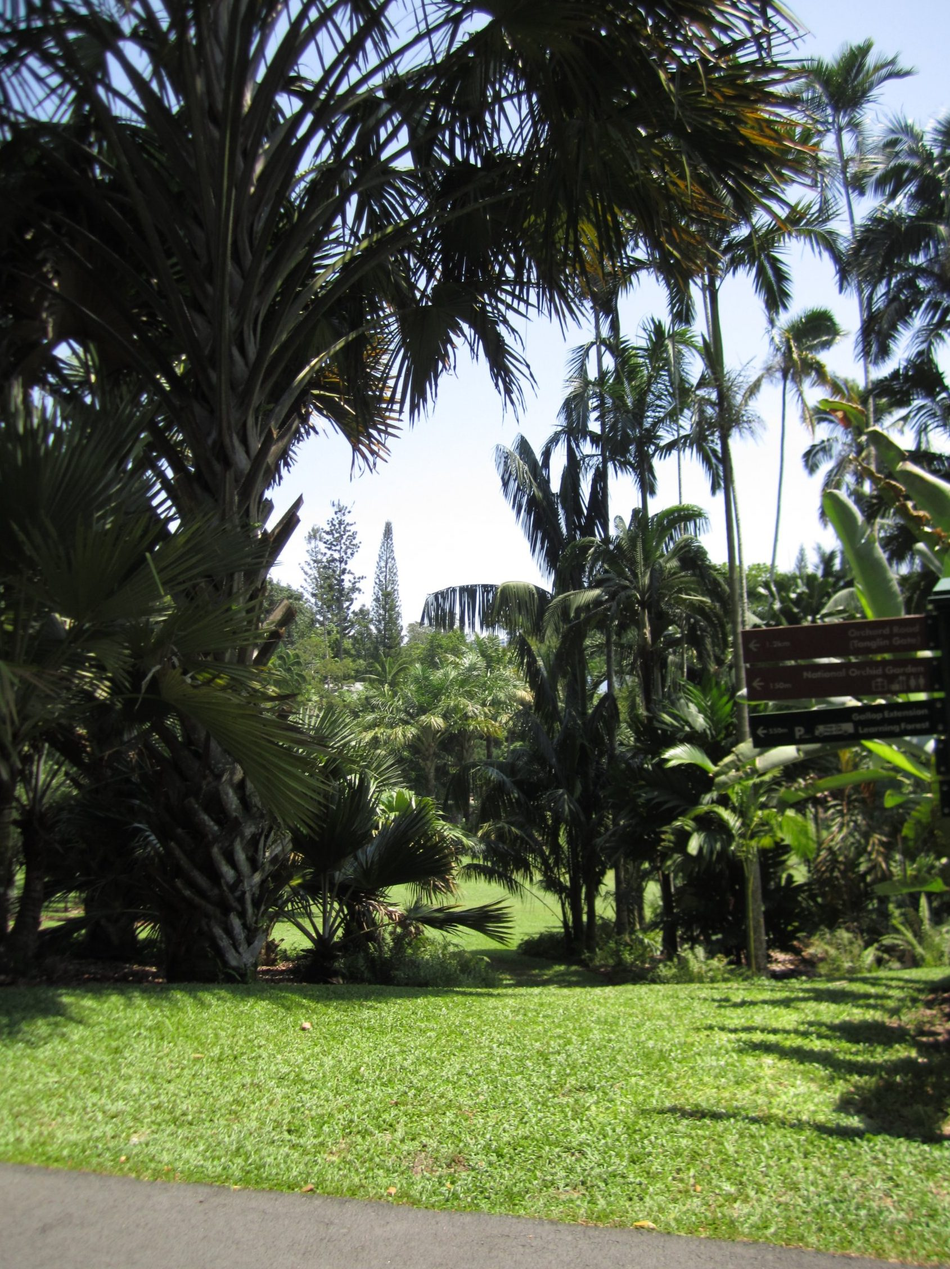
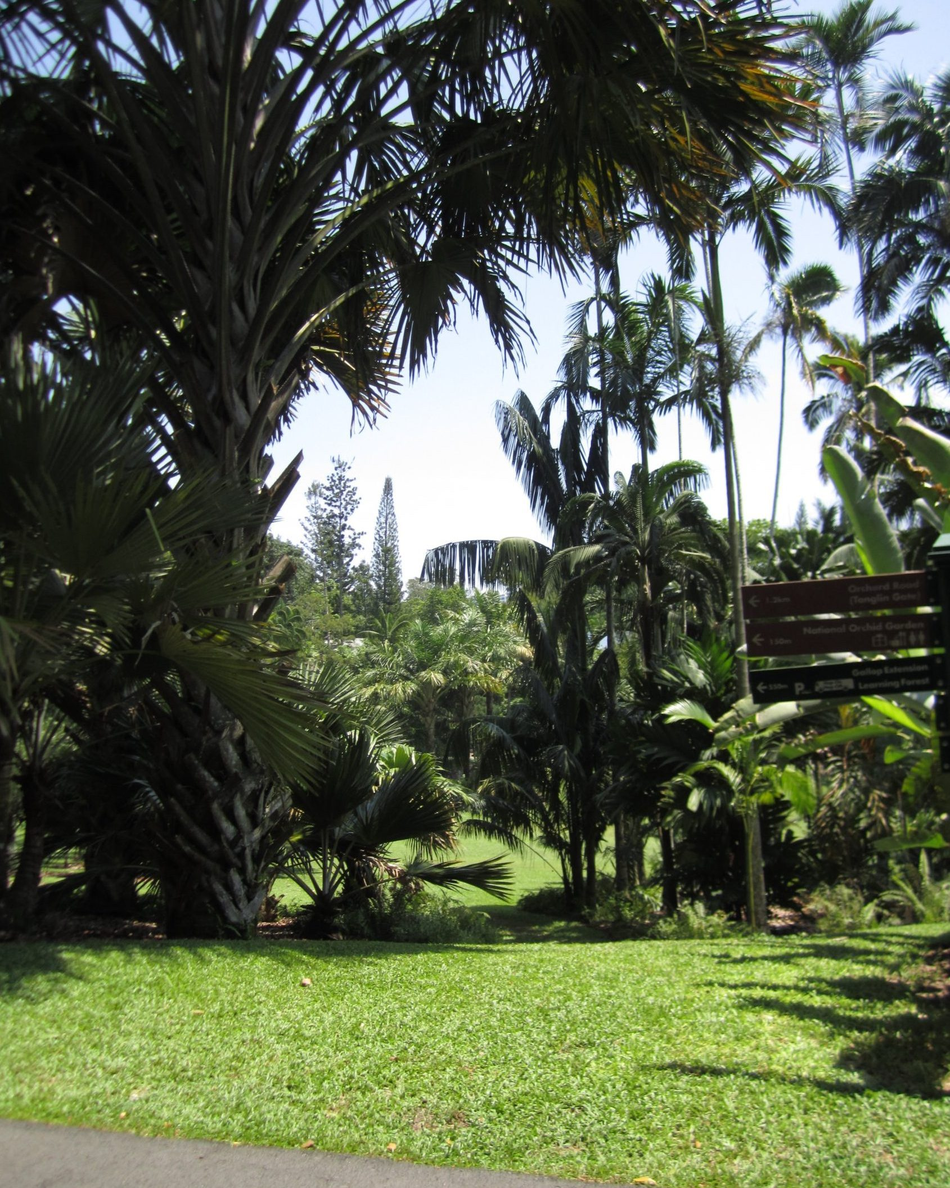
Hero photos: crop to 4:5
Claude-Session: https://claude.ai/code/session_01CzUgLB4bLHRPfWzb5fm5tx

diff --git a/index.html b/index.html
@@ -5,7 +5,7 @@
 <meta name="viewport" content="width=device-width, initial-scale=1">
 <title>Oulan Li — Experience Designer</title>
 <meta name="description" content="Oulan Li is an experience designer working across interfaces, games and research.">
-<link rel="stylesheet" href="assets/home.css?v=20261115">
+<link rel="stylesheet" href="assets/home.css?v=20261115b">
 <script>
   // Apply the saved theme before first paint to avoid a flash.
   try { if (localStorage.getItem('theme') === 'dark') document.documentElement.dataset.theme = 'dark'; } catch (e) {}
@@ -27,9 +27,9 @@
     <!-- Hero: replace .hero-media contents with a looping B&W <video> or <img>. -->
     <section class="hero" aria-label="Intro">
       <div class="hero-media">
-        <div class="season" data-season="spring" ><span class="bg" style="background-image:url('assets/images/hero-spring.jpg')"></span><img src="assets/images/hero-spring.jpg" alt="Cherry blossoms over the water, photographed by Oulan" loading="lazy"></div>
-        <div class="season" data-season="summer" ><span class="bg" style="background-image:url('assets/images/hero-summer.jpg')"></span><img src="assets/images/hero-summer.jpg" alt="Palms and a green lawn in a tropical garden, photographed by Oulan" loading="lazy"></div>
-        <div class="season is-on" data-season="fall" ><span class="bg" style="background-image:url('assets/images/hero-fall.jpg')"></span><img src="assets/images/hero-fall.jpg" alt="A path under autumn trees, red and yellow leaves on the grass, photographed by Oulan"></div>
+        <div class="season" data-season="spring" ><span class="bg" style="background-image:url('assets/images/hero-spring.jpg?v=2')"></span><img src="assets/images/hero-spring.jpg?v=2" alt="Cherry blossoms over the water, photographed by Oulan" loading="lazy"></div>
+        <div class="season" data-season="summer" ><span class="bg" style="background-image:url('assets/images/hero-summer.jpg?v=2')"></span><img src="assets/images/hero-summer.jpg?v=2" alt="Palms and a green lawn in a tropical garden, photographed by Oulan" loading="lazy"></div>
+        <div class="season is-on" data-season="fall" ><span class="bg" style="background-image:url('assets/images/hero-fall.jpg?v=2')"></span><img src="assets/images/hero-fall.jpg?v=2" alt="A path under autumn trees, red and yellow leaves on the grass, photographed by Oulan"></div>
       </div>
       <p class="hero-note" aria-label="Photos by me, one per season">
         <button type="button" data-season="spring">Spring</button><span>·</span><button type="button" data-season="summer">Summer</button><span>·</span><button type="button" data-season="fall" class="is-on" aria-pressed="true">Fall</button> 2026 <span class="by">· Photo by me</span>
@@ -107,6 +107,6 @@
     </div>
   </main>
 
-<script src="assets/home.js?v=20261115"></script>
+<script src="assets/home.js?v=20261115b"></script>
 </body>
 </html>

diff --git a/work/familink.html b/work/familink.html
@@ -5,7 +5,7 @@
 <meta name="viewport" content="width=device-width, initial-scale=1">
 <title>famiLink — Oulan Li</title>
 <meta name="description" content="famiLink: a shared virtual home that helps long-distance families stay close. A UX research and experience design case study.">
-<link rel="stylesheet" href="../assets/home.css?v=20261115">
+<link rel="stylesheet" href="../assets/home.css?v=20261115b">
 <script>
   try { if (localStorage.getItem('theme') === 'dark') document.documentElement.dataset.theme = 'dark'; } catch (e) {}
 </script>
@@ -295,6 +295,6 @@
     </footer>
   </main>
 
-<script src="../assets/home.js?v=20261115"></script>
+<script src="../assets/home.js?v=20261115b"></script>
 </body>
 </html>

diff --git a/work/it-takes-two-alices.html b/work/it-takes-two-alices.html
@@ -5,7 +5,7 @@
 <meta name="viewport" content="width=device-width, initial-scale=1">
 <title>It Takes Two Alices — Oulan Li</title>
 <meta name="description" content="A two-player AR puzzle game on Tilt Five that makes kids’ first step into programming social.">
-<link rel="stylesheet" href="../assets/home.css?v=20261115">
+<link rel="stylesheet" href="../assets/home.css?v=20261115b">
 <script>
   try { if (localStorage.getItem('theme') === 'dark') document.documentElement.dataset.theme = 'dark'; } catch (e) {}
 </script>
@@ -169,6 +169,6 @@
     </footer>
   </main>
 
-<script src="../assets/home.js?v=20261115"></script>
+<script src="../assets/home.js?v=20261115b"></script>
 </body>
 </html>

diff --git a/work/yiko-yiko.html b/work/yiko-yiko.html
@@ -5,7 +5,7 @@
 <meta name="viewport" content="width=device-width, initial-scale=1">
 <title>Yiko Yiko — Oulan Li</title>
 <meta name="description" content="A playful website for a handmade dessert bakery, with custom cake orders built in.">
-<link rel="stylesheet" href="../assets/home.css?v=20261115">
+<link rel="stylesheet" href="../assets/home.css?v=20261115b">
 <script>
   try { if (localStorage.getItem('theme') === 'dark') document.documentElement.dataset.theme = 'dark'; } catch (e) {}
 </script>
@@ -174,6 +174,6 @@
     </footer>
   </main>
 
-<script src="../assets/home.js?v=20261115"></script>
+<script src="../assets/home.js?v=20261115b"></script>
 </body>
 </html>

diff --git a/work/360-studio.html b/work/360-studio.html
@@ -5,7 +5,7 @@
 <meta name="viewport" content="width=device-width, initial-scale=1">
 <title>360 Studio — Oulan Li</title>
 <meta name="description" content="What makes play around a 360° screen work? A CMU ETC project, in progress.">
-<link rel="stylesheet" href="../assets/home.css?v=20261115">
+<link rel="stylesheet" href="../assets/home.css?v=20261115b">
 <script>
   try { if (localStorage.getItem('theme') === 'dark') document.documentElement.dataset.theme = 'dark'; } catch (e) {}
 </script>
@@ -56,6 +56,6 @@
     </footer>
   </main>
 
-<script src="../assets/home.js?v=20261115"></script>
+<script src="../assets/home.js?v=20261115b"></script>
 </body>
 </html>

diff --git a/i-had-fun.html b/i-had-fun.html
@@ -5,7 +5,7 @@
 <meta name="viewport" content="width=device-width, initial-scale=1">
 <title>I had fun — Oulan Li</title>
 <meta name="description" content="Four game jams from Building Virtual Worlds at CMU’s ETC, each made in two weeks.">
-<link rel="stylesheet" href="assets/home.css?v=20261115">
+<link rel="stylesheet" href="assets/home.css?v=20261115b">
 <script>
   try { if (localStorage.getItem('theme') === 'dark') document.documentElement.dataset.theme = 'dark'; } catch (e) {}
 </script>
@@ -69,6 +69,6 @@
     </footer>
   </main>
 
-<script src="assets/home.js?v=20261115"></script>
+<script src="assets/home.js?v=20261115b"></script>
 </body>
 </html>
